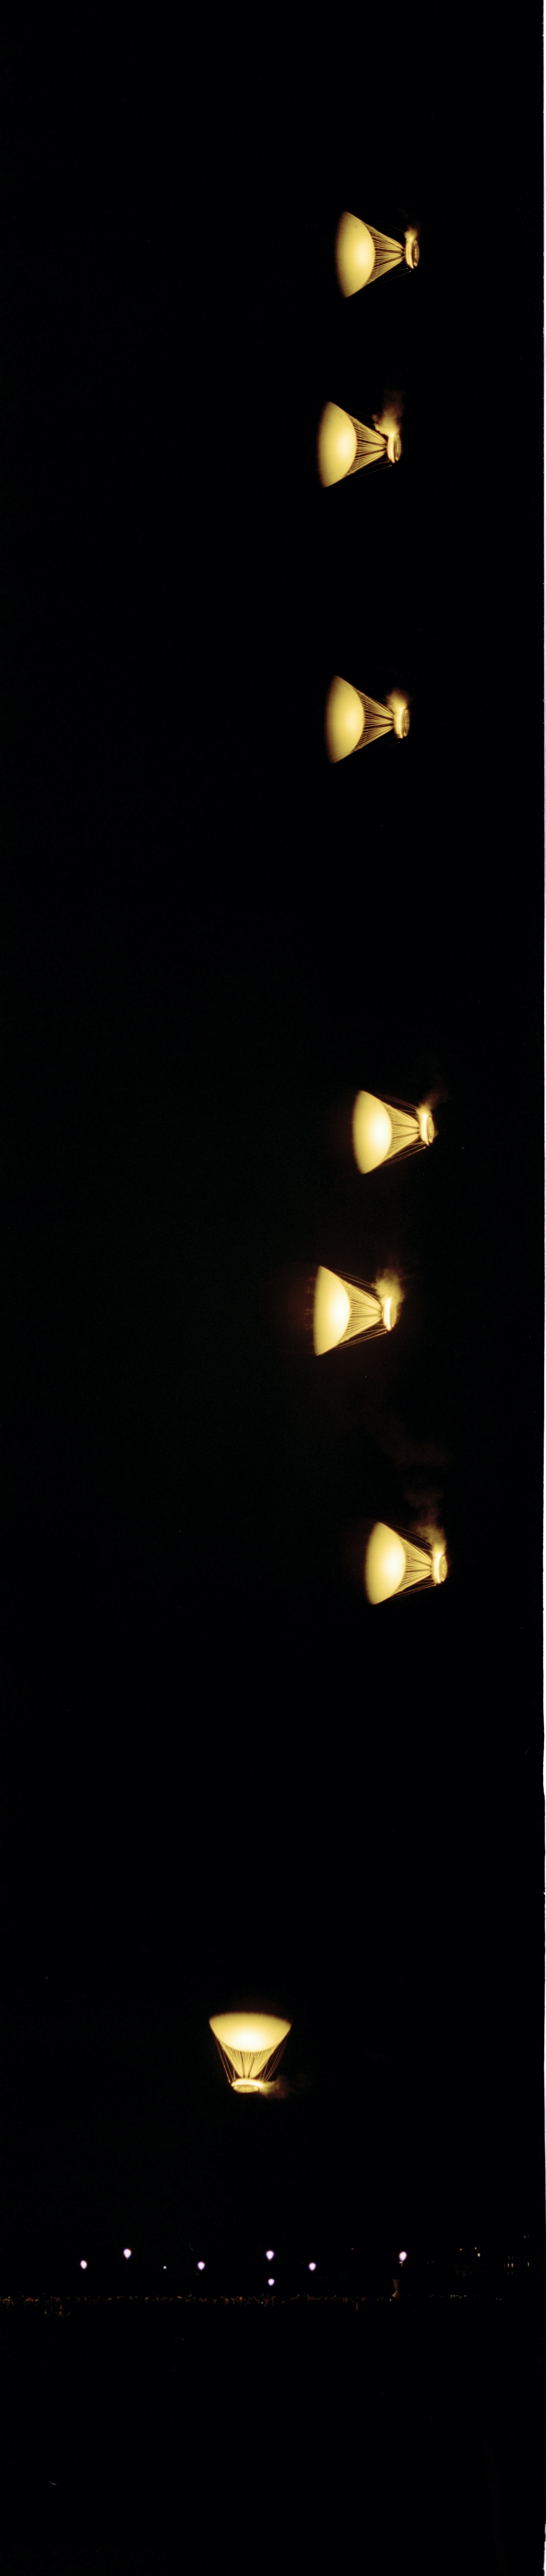
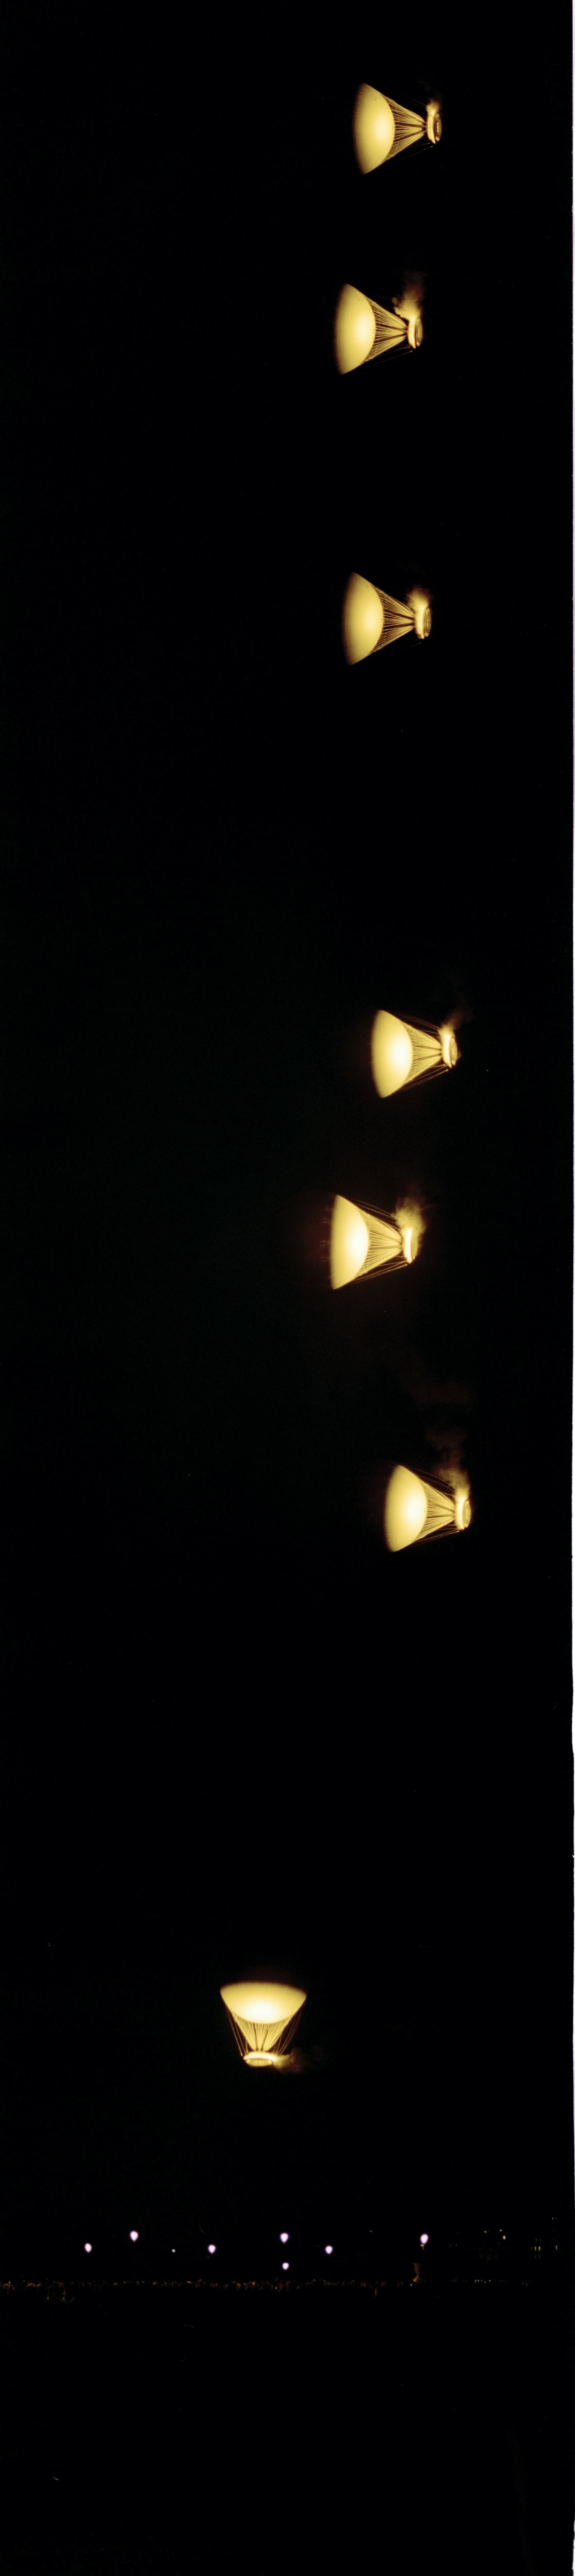
update dictionary, films and headers

diff --git a/assets/css/style.css b/assets/css/style.css
@@ -39,10 +39,9 @@ body {
 }
 
 .site-name {
-  font-size: 11px;
-  letter-spacing: 0.18em;
-  color: rgba(255, 255, 255, 0.3);
-  text-transform: uppercase;
+  font-size: 15px;
+  letter-spacing: 0.08em;
+  color: rgba(255, 255, 255, 1);
   padding: 0 24px 28px;
   border-bottom: 0.5px solid rgba(255, 255, 255, 0.07);
   margin-bottom: 24px;
@@ -51,6 +50,10 @@ body {
 }
 .site-name-text {
   transition: opacity 0.15s ease;
+}
+.site-name-chinese {
+  font-size: 12px;
+  color: rgba(255, 255, 255, 0.55);
 }
 .sidebar.collapsed .site-name {
   cursor: pointer;
@@ -622,12 +625,38 @@ body {
   color: #fff;
   margin-bottom: 12px;
 }
+.char-tip {
+  position: relative;
+  cursor: default;
+}
+.char-tip::after {
+  content: attr(data-tip);
+  position: absolute;
+  bottom: calc(100% - 4px);
+  left: 50%;
+  transform: translateX(-50%);
+  background: rgba(20, 20, 20, 0.92);
+  color: rgba(255, 255, 255, 0.85);
+  font-family: "Bitter", serif;
+  font-size: 13px;
+  font-weight: 400;
+  white-space: nowrap;
+  padding: 5px 10px;
+  border-radius: 4px;
+  border: 0.5px solid rgba(255, 255, 255, 0.12);
+  pointer-events: none;
+  opacity: 0;
+  transition: opacity 0.15s ease;
+}
+.char-tip:hover::after {
+  opacity: 1;
+}
 .slide-about .name-big {
   font-family: "Bitter", serif;
   font-size: 38px;
   color: #fff;
   font-weight: 400;
-  margin-bottom: 4px;
+  margin-bottom: 8px;
 }
 .slide-about .role-tags {
   display: flex;
@@ -695,7 +724,7 @@ body {
 }
 
 .project-header {
-  height: 52px;
+  height: 76px;
   flex-shrink: 0;
   border-bottom: 0.5px solid rgba(255, 255, 255, 0.07);
   display: flex;
@@ -726,14 +755,28 @@ body {
   outline: none;
 }
 
-.project-title {
+.project-title-group {
   flex: 1;
+  display: flex;
+  flex-direction: column;
+  align-items: center;
+  gap: 2px;
+}
+.project-title {
   text-align: center;
   font-family: "Bitter", serif;
   font-size: 24px;
   font-style: italic;
   color: rgba(255, 255, 255, 0.55);
   letter-spacing: 0.04em;
+}
+.project-subtitle {
+  font-family: "Bitter", serif;
+  font-size: 14px;
+  font-style: italic;
+  color: rgba(255, 255, 255, 0.3);
+  letter-spacing: 0.06em;
+  white-space: nowrap;
 }
 
 .project-esc-hint {

diff --git a/assets/js/main.js b/assets/js/main.js
@@ -129,6 +129,7 @@ goTo(0);
 const photoProjects = [
   {
     title: "Messager 414",
+    subtitle: "Nikon F3, Kodak 5207",
     cover: "assets/images/photographs/Messager 414/stellar_0.jpg",
     sections: [
       {
@@ -163,6 +164,7 @@ const photoProjects = [
   },
   {
     title: "Comet Kiss",
+    subtitle: "iPhone & Microscope",
     cover: "assets/images/photographs/comet kiss/comet_0.jpeg",
     sections: [
       {
@@ -191,6 +193,7 @@ const photoProjects = [
   },
   {
     title: "Mirror Mirror",
+    subtitle: "iPhone, Olympus digital camera & mirror from vienna flea market",
     cover: "assets/images/photographs/mirror/mirror_0.jpeg",
     horizontalStrip: true,
     photos: Array.from(
@@ -200,6 +203,7 @@ const photoProjects = [
   },
   {
     title: "the city",
+    subtitle: "Nikon F3, Lomography Babylon & Berlin",
     cover: "assets/images/photographs/tokyo/tokyo_0.jpeg",
     smallPhotos: true,
     photos: [
@@ -226,6 +230,7 @@ const photoProjects = [
   },
   {
     title: "Pound",
+    subtitle: "Nikon F3 & disposable camera, different films",
     cover: "assets/images/photographs/pound/k_0.jpeg",
     smallPhotos: true,
     photos: [
@@ -252,6 +257,7 @@ const photoProjects = [
   },
   {
     title: "the town",
+    subtitle: "Nikon F80, Kodak 5207",
     cover: "assets/images/photographs/the town/town_0.jpeg",
     smallPhotos: true,
     photos: [
@@ -277,6 +283,7 @@ const photoProjects = [
   },
   {
     title: "Ong Ong",
+    subtitle: "Nikon F80, Kodak 5207",
     cover: "assets/images/photographs/Ong Ong/Ong_0.jpeg",
     smallPhotos: true,
     photos: [
@@ -292,6 +299,7 @@ const photoProjects = [
   },
   {
     title: "grand summer",
+    subtitle: "Nikon F3, Kodak 5207 & disposable camera",
     cover: "assets/images/photographs/grand summer/paris_0.jpeg",
     smallPhotos: true,
     photos: [
@@ -358,7 +366,10 @@ photoProjects.forEach((project, i) => {
           photoProjectsGrid.scrollTop +
           (cardRect.top - gridRect.top) -
           (gridRect.height - cardRect.height) / 2;
-        photoProjectsGrid.scrollTo({ top: Math.max(0, targetScroll), behavior: "smooth" });
+        photoProjectsGrid.scrollTo({
+          top: Math.max(0, targetScroll),
+          behavior: "smooth",
+        });
       } else {
         photoProjectsGrid.scrollTo({ top: 0, behavior: "smooth" });
       }
@@ -372,12 +383,15 @@ photoProjects.forEach((project, i) => {
 // ── PROJECT OVERLAY ───────────────────────────────────────────────
 const projectOverlay = document.getElementById("projectOverlay");
 const projectTitle = document.getElementById("projectTitle");
+const projectSubtitle = document.getElementById("projectSubtitle");
 const projectClose = document.getElementById("projectClose");
 const projectGrid = document.getElementById("projectGrid");
 let activeProjectPhotos = [];
 
 function openProject(project) {
   projectTitle.textContent = project.title;
+  projectSubtitle.textContent = project.subtitle || "";
+  projectSubtitle.style.display = project.subtitle ? "" : "none";
   projectGrid.innerHTML = "";
 
   if (project.horizontalStrip) {
@@ -396,7 +410,10 @@ function openProject(project) {
       wrap.addEventListener("mouseenter", () => {
         const gridRect = projectGrid.getBoundingClientRect();
         const wrapRect = wrap.getBoundingClientRect();
-        if (wrapRect.right > gridRect.right - 8 || wrapRect.left < gridRect.left + 8) {
+        if (
+          wrapRect.right > gridRect.right - 8 ||
+          wrapRect.left < gridRect.left + 8
+        ) {
           const targetScroll =
             projectGrid.scrollLeft +
             (wrapRect.left - gridRect.left) -
@@ -465,7 +482,10 @@ function openProject(project) {
               projectGrid.scrollTop +
               (wrapRect.top - gridRect.top) -
               (gridRect.height - wrapRect.height) / 2;
-            projectGrid.scrollTo({ top: Math.max(0, targetScroll), behavior: "smooth" });
+            projectGrid.scrollTo({
+              top: Math.max(0, targetScroll),
+              behavior: "smooth",
+            });
           }
         });
       }
@@ -478,7 +498,11 @@ function openProject(project) {
 
 function closeProject() {
   projectOverlay.classList.remove("open");
-  projectGrid.classList.remove("project-grid--sections", "project-grid--small", "project-grid--strip");
+  projectGrid.classList.remove(
+    "project-grid--sections",
+    "project-grid--small",
+    "project-grid--strip",
+  );
 }
 
 projectClose.addEventListener("click", closeProject);

diff --git a/index.html b/index.html
@@ -16,7 +16,7 @@
       <!-- SIDEBAR -->
       <nav class="sidebar" id="sidebar">
         <div class="site-name" id="sidebarToggle">
-          <span class="site-name-text">Hanlin</span>
+          <span class="site-name-text">Hanlin <span class="site-name-chinese">王菡琳</span></span>
           <span class="site-expand-hint">›</span>
         </div>
         <div class="nav-items">
@@ -278,7 +278,7 @@
           />
           <div class="about-text">
             <div class="name-big">Hanlin</div>
-            <div class="name-chinese">王菡琳</div>
+            <div class="name-chinese"><span class="char-tip" data-tip="wáng — surname">王</span><span class="char-tip" data-tip="hàn — lotus buds">菡</span><span class="char-tip" data-tip="lín — sound of jades clinking">琳</span></div>
             <div class="role-tags">
               <div class="role-tag">Developer</div>
               <div class="role-tag">Photographer</div>
@@ -299,7 +299,10 @@
     <div class="project-overlay" id="projectOverlay">
       <div class="project-header">
         <button class="project-back" id="projectClose">←</button>
-        <div class="project-title" id="projectTitle"></div>
+        <div class="project-title-group">
+          <div class="project-title" id="projectTitle"></div>
+          <div class="project-subtitle" id="projectSubtitle"></div>
+        </div>
         <div class="project-esc-hint">ESC</div>
       </div>
       <div class="project-grid" id="projectGrid"></div>